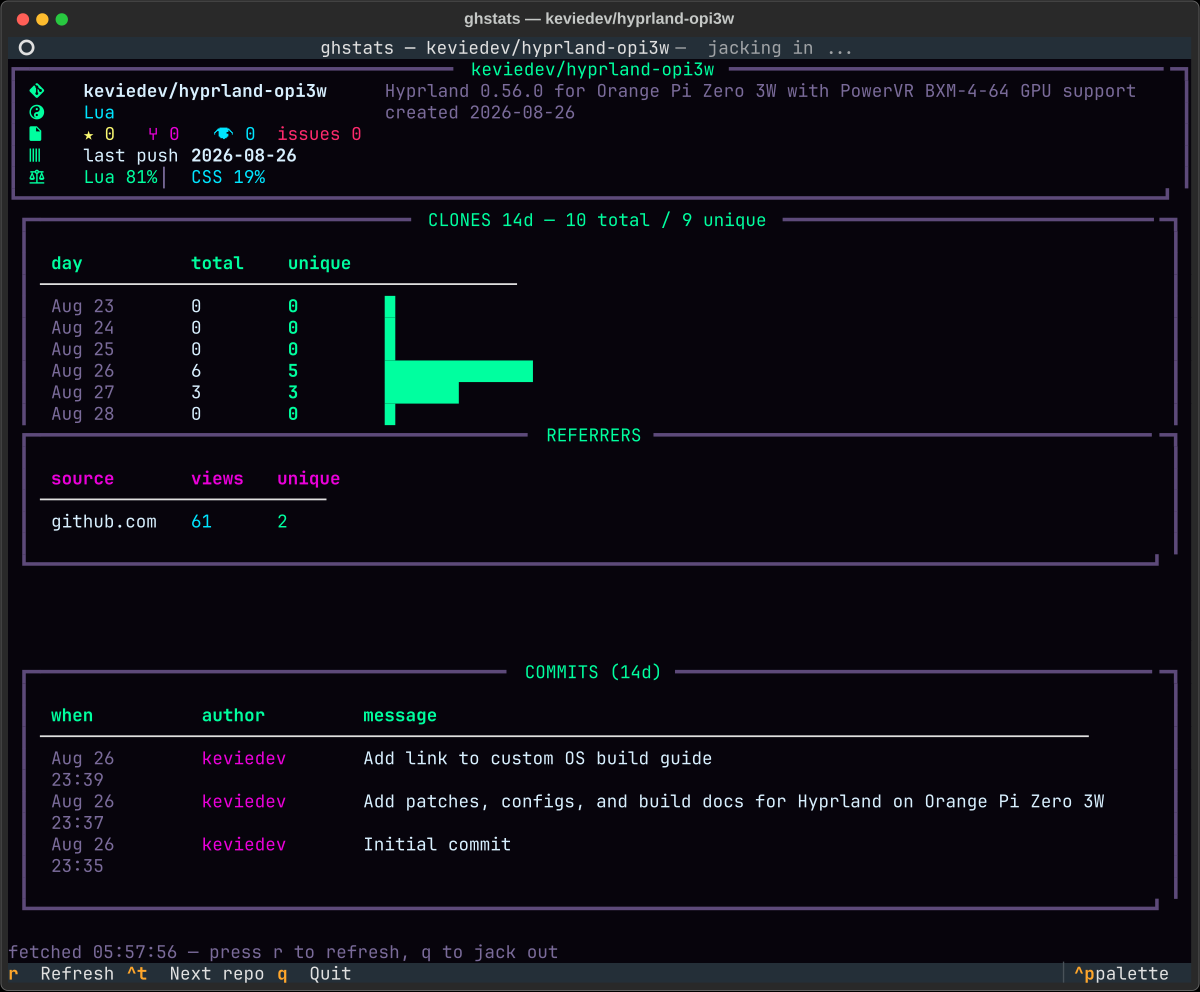
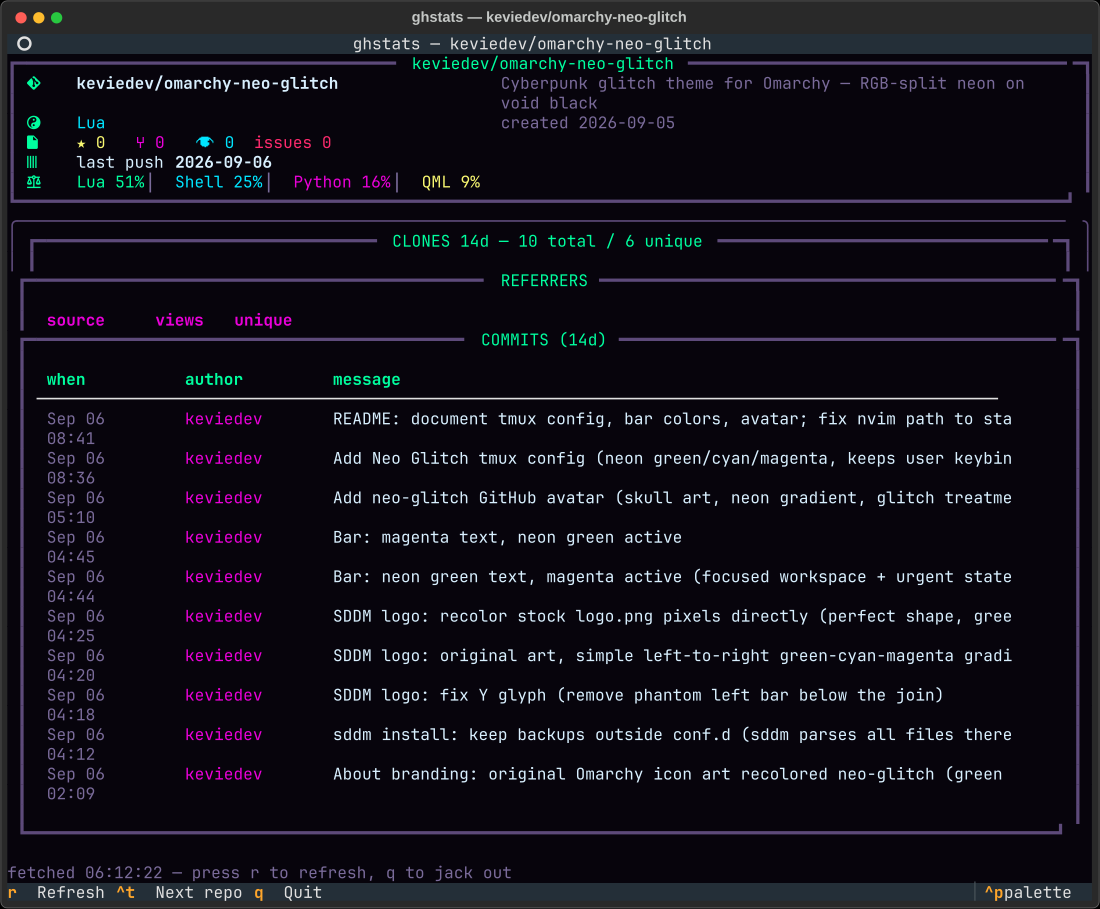
Clones panel: full rounded border + margin-bottom

diff --git a/ghstats.py b/ghstats.py
@@ -133,6 +133,7 @@ class GhStats(App):
     Screen { background: #07040c; }
     #body { height: 1fr; }
     NeoPanel { border: none; padding: 0 1; }
+    NeoPanel.clones-box { border: round #5d4a7a; margin: 0 0 1 0; }
     """
     BINDINGS = [
         ("r", "refresh", "Refresh"),
@@ -240,6 +241,7 @@ class GhStats(App):
 
         clones_panel = make_traffic_panel(
             f"CLONES 14d — {clones.get('count', 0)} total / {clones.get('uniques', 0)} unique", clones, "clones", RICH_GREEN)
+        clones_panel.add_class("clones-box")
         views_panel = make_traffic_panel(
             f"VIEWS 14d — {views.get('count', 0)} total / {views.get('uniques', 0)} unique", views, "views", RICH_CYAN)
         traffic_row = Horizontal(clones_panel, views_panel)
